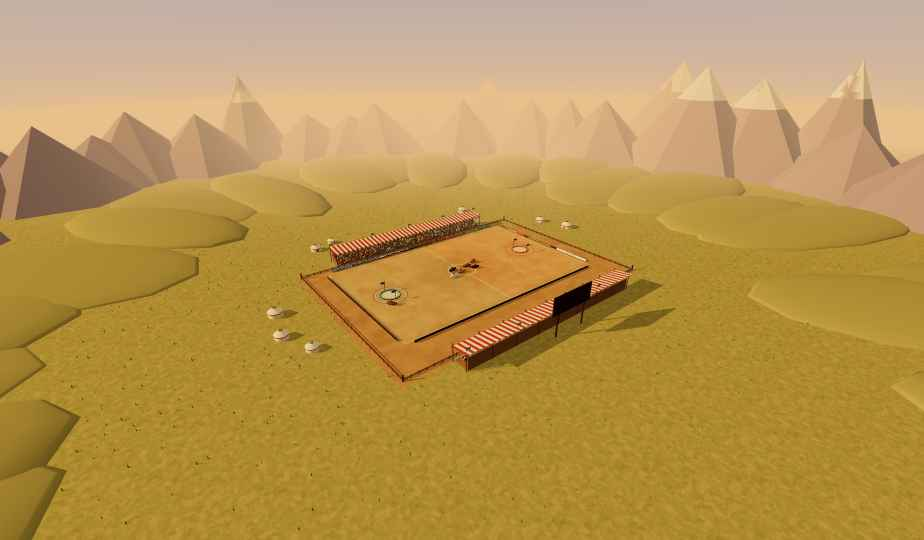
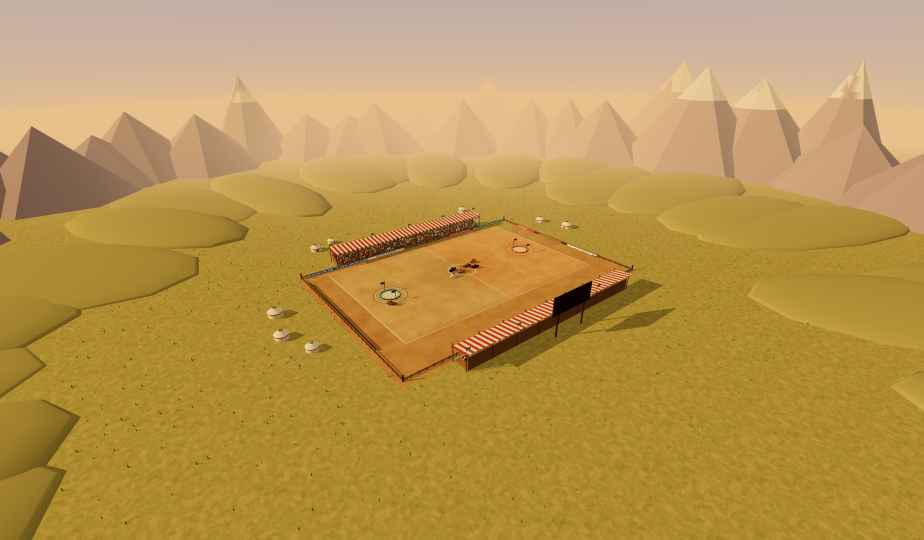
Add design handoff v2

diff --git a/design_handoff_arena_v2/code/arenaV2.js b/design_handoff_arena_v2/code/arenaV2.js
@@ -199,10 +199,10 @@ export function createAdBoards(scene) {
   const SP = { qt: ["QAZAQ TELECOM", "#1668b8", "#fff", 1.5], bg: ["BAIGE", "#f6f4ee", "#1a1008", 1], tl: ["TULPAR", "#c02020", "#fff8ec", 1], ad: ["ALTYN DALA", "#0f8a4c", "#fff", 1.1], ko: ["KOKPAR.ONLINE", "#1a1005", GOLD, 1.3] };
   const boards = new THREE.Group(); boards.name = "adBoards";
   for (const b of [
-    { segs: [SP.qt, SP.bg, SP.ko, SP.tl, SP.ad], len: W * .94, pos: [0, -H / 2 - 1.6], ry: 0 },
-    { segs: [SP.ad, SP.tl, SP.ko, SP.bg, SP.qt], len: W * .94, pos: [0, H / 2 + 1.6], ry: Math.PI },
-    { segs: [SP.qt, SP.ko, SP.ad], len: H * .9, pos: [-W / 2 - 1.6, 0], ry: Math.PI / 2 },
-    { segs: [SP.tl, SP.ko, SP.bg], len: H * .9, pos: [W / 2 + 1.6, 0], ry: -Math.PI / 2 },
+    { segs: [SP.qt, SP.bg, SP.ko, SP.tl, SP.ad], len: FENCE_X * 2 - 6, pos: [0, SOUTH_Z + 1.2], ry: 0 },
+    // стартовая (северная) сторона без щитов — оттуда выезжают всадники. Щиты стоят у забора, между полем и щитами ~5 м (юг) и ~13 м (бока) для выхода в аут
+    { segs: [SP.qt, SP.ko, SP.ad], len: H * .9, pos: [-FENCE_X + 1.2, 0], ry: Math.PI / 2 },
+    { segs: [SP.tl, SP.ko, SP.bg], len: H * .9, pos: [FENCE_X - 1.2, 0], ry: -Math.PI / 2 },
   ]) {
     const g = new THREE.Group(); g.position.set(b.pos[0], .95, b.pos[1]); g.rotation.y = b.ry;
     const tilt = new THREE.Group(); tilt.rotation.x = -.16; g.add(tilt);

diff --git a/design_handoff_arena_v2/README.md b/design_handoff_arena_v2/README.md
@@ -49,5 +49,8 @@
 - `screenshots/00-current-wrong.png` — как получилось сейчас (неправильно)
 - `screenshots/01…06` — эталон
 
+## Рекламные щиты
+На северной (стартовой) стороне щитов нет — оттуда выезжают всадники. Остаются южная длинная сторона и обе короткие. Щиты стоят вплотную к забору (в 1.2 м внутрь), а не у кромки поля: всадники могут уходить в аут — ~4 м за южной линией и ~13 м за боковыми.
+
 ## Производительность
 `isMobile: true` сам включает: тени 2048, пыль 300 частиц, 90 зрителей в ряд вместо 132.
